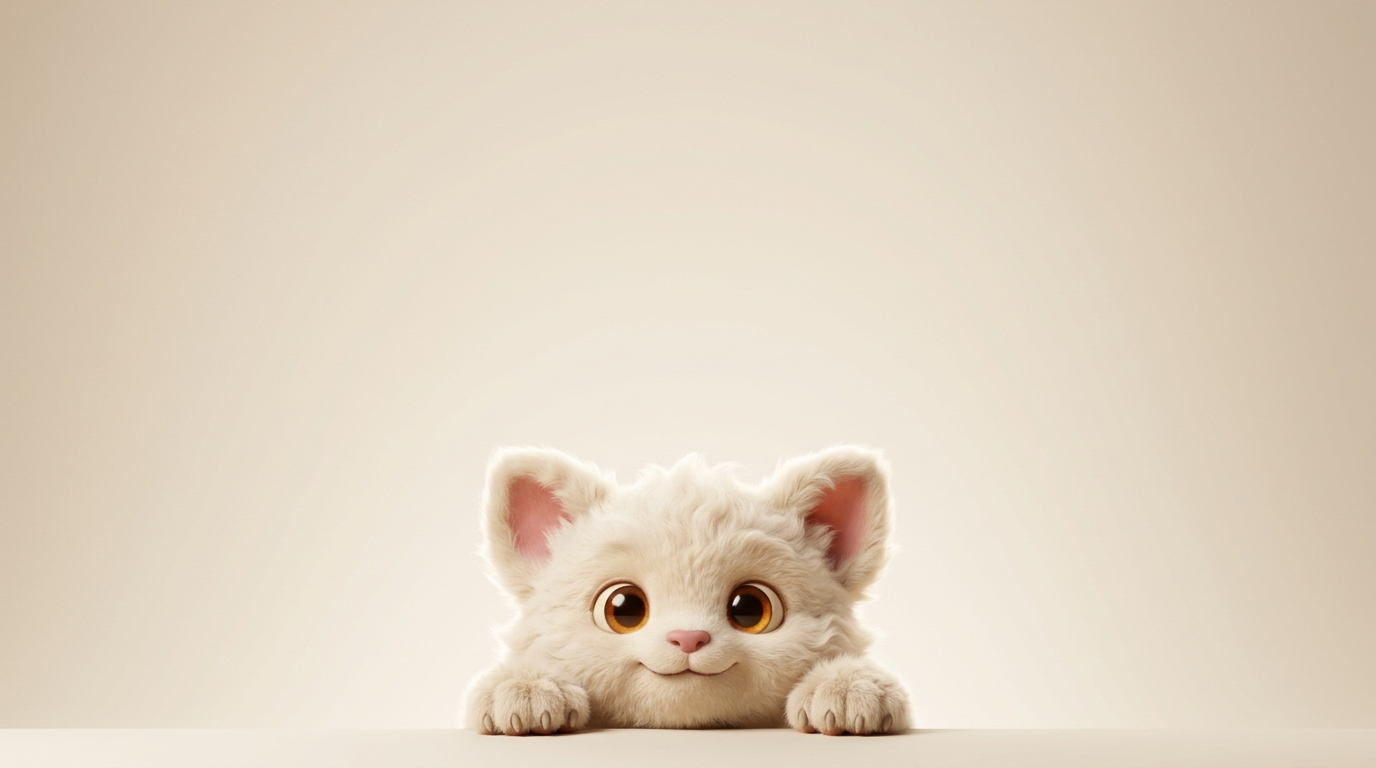
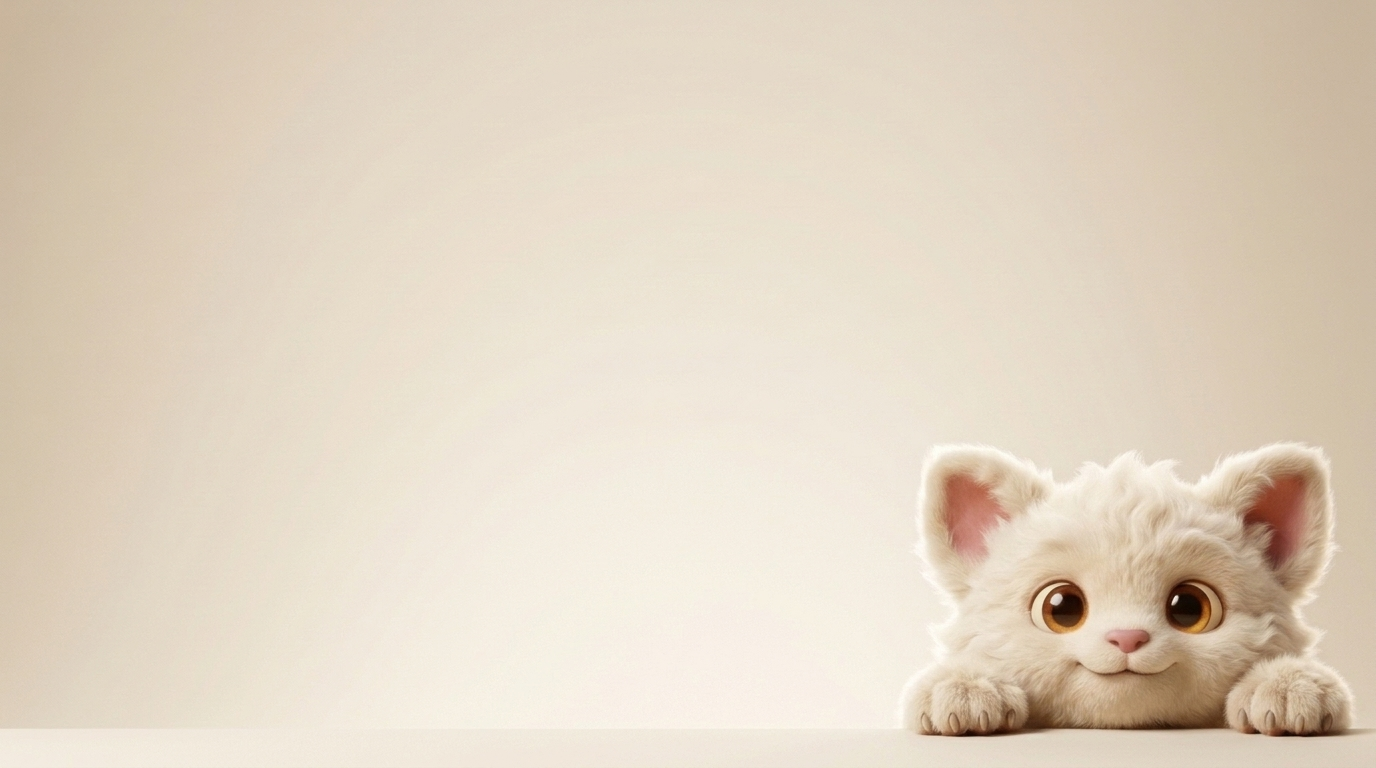
feat(v5.5.1): refine peeking creature bottom-right placement & complete mobile responsive navbar layout

Changed region(s): [[0.3438, 0.5625, 1.0, 1.0]]

diff --git a/index.html b/index.html
@@ -432,7 +432,7 @@
     <div id="portal-page" class="min-h-screen bg-[#FBF8F3] text-stone-800 flex flex-col font-sans transition-all duration-300 relative z-30 overflow-x-hidden hidden">
         <!-- 可愛萌物探頭背景固定層 & 柔和氛圍光 (Cute Creature Peeking Frosted Background) -->
         <div class="fixed inset-0 pointer-events-none z-0 overflow-hidden" aria-hidden="true">
-            <img src="assets/bg/cute_creature_bg.jpg" alt="" class="w-full h-full object-cover object-bottom sm:object-right-bottom opacity-[0.16] select-none pointer-events-none transition-opacity duration-700" />
+            <img src="assets/bg/cute_creature_bg.jpg?v=5.5.1" alt="" class="w-full h-full object-cover opacity-[0.16] select-none pointer-events-none transition-opacity duration-700" style="object-position: 80% 100%;" />
             <div class="absolute -top-[10%] -left-[10%] w-[55vw] h-[55vw] rounded-full pointer-events-none" style="background: radial-gradient(circle, rgba(245, 158, 11, 0.08) 0%, rgba(245, 158, 11, 0) 70%);"></div>
             <div class="absolute top-[30%] right-[-5%] w-[45vw] h-[45vw] rounded-full pointer-events-none" style="background: radial-gradient(circle, rgba(16, 185, 129, 0.05) 0%, rgba(16, 185, 129, 0) 70%);"></div>
             <div class="absolute -bottom-[10%] left-[20%] w-[55vw] h-[55vw] rounded-full pointer-events-none" style="background: radial-gradient(circle, rgba(99, 102, 241, 0.05) 0%, rgba(99, 102, 241, 0) 70%);"></div>
@@ -442,38 +442,50 @@
         <header class="sticky top-0 z-40 bg-[#fbf8f3]/80 backdrop-blur-xl border-b border-white/80 shadow-[0_4px_20px_-2px_rgba(120,90,60,0.03)] transition-all">
             <div class="max-w-7xl mx-auto px-4 sm:px-10 h-16 sm:h-20 flex items-center justify-between gap-3">
                 <!-- 左側：網站 Logo 與名稱 (點擊返回首頁頂端，維持寬度不被壓縮) -->
-                <button id="portal-nav-logo-btn" class="flex items-center gap-2.5 sm:gap-3.5 cursor-pointer group select-none text-left shrink-0" title="返回首頁頂端">
+                <button id="portal-nav-logo-btn" class="flex items-center gap-2 sm:gap-3 cursor-pointer group select-none text-left shrink-0" title="返回首頁頂端">
                     <img src="icon.svg" class="w-8 h-8 sm:w-10 sm:h-10 lg:w-11 lg:h-11 rounded-xl sm:rounded-2xl shadow-md shadow-indigo-600/20 group-hover:scale-105 transition-transform shrink-0" alt="PalClass">
                     <div class="shrink-0 flex flex-col justify-center">
                         <span class="text-base sm:text-xl lg:text-2xl font-black text-stone-900 tracking-tight block whitespace-nowrap">PalClass</span>
-                        <span class="text-[10px] sm:text-xs font-extrabold text-amber-700 tracking-wide block -mt-0.5 whitespace-nowrap">國一生獨立開發 • 經典三合一版</span>
+                        <span class="text-[10px] sm:text-xs font-extrabold text-amber-700 tracking-wide block -mt-0.5 whitespace-nowrap"><span class="hidden sm:inline">國一生獨立開發 • </span>經典三合一版</span>
                     </div>
                 </button>
 
                 <!-- 右側：功能按鈕列 (黃金比例精簡收納，乾淨清爽) -->
                 <div class="flex items-center gap-1.5 sm:gap-2.5 shrink-0">
-                    <!-- 家長端直達按鈕 -->
-                    <a href="parent.html" target="_blank" rel="noopener noreferrer" class="text-xs sm:text-sm font-bold text-indigo-700 bg-white/70 hover:bg-white/95 border border-indigo-200/70 backdrop-blur-md px-3 sm:px-3.5 py-1.5 sm:py-2 rounded-full transition-all flex items-center gap-1.5 shadow-2xs cursor-pointer whitespace-nowrap shrink-0" title="前往家長端即時查核看板">
+                    <!-- 家長端直達按鈕 (桌面端展示，行動端收納於選單) -->
+                    <a href="parent.html" target="_blank" rel="noopener noreferrer" class="hidden sm:inline-flex text-xs sm:text-sm font-bold text-indigo-700 bg-white/70 hover:bg-white/95 border border-indigo-200/70 backdrop-blur-md px-3 sm:px-3.5 py-1.5 sm:py-2 rounded-full transition-all items-center gap-1.5 shadow-2xs cursor-pointer whitespace-nowrap shrink-0" title="前往家長端即時查核看板">
                         <i class="fa-solid fa-house-chimney-user text-indigo-600"></i>
-                        <span class="hidden sm:inline">家長端</span>
+                        <span>家長端</span>
                     </a>
 
-                    <!-- 學生端直達按鈕 -->
-                    <a href="student.html" target="_blank" rel="noopener noreferrer" class="text-xs sm:text-sm font-bold text-emerald-800 bg-white/70 hover:bg-white/95 border border-emerald-300/70 backdrop-blur-md px-3 sm:px-3.5 py-1.5 sm:py-2 rounded-full transition-all flex items-center gap-1.5 shadow-2xs cursor-pointer whitespace-nowrap shrink-0" title="前往學生端數位聯絡簿">
+                    <!-- 學生端直達按鈕 (桌面端展示，行動端收納於選單) -->
+                    <a href="student.html" target="_blank" rel="noopener noreferrer" class="hidden sm:inline-flex text-xs sm:text-sm font-bold text-emerald-800 bg-white/70 hover:bg-white/95 border border-emerald-300/70 backdrop-blur-md px-3 sm:px-3.5 py-1.5 sm:py-2 rounded-full transition-all items-center gap-1.5 shadow-2xs cursor-pointer whitespace-nowrap shrink-0" title="前往學生端數位聯絡簿">
                         <i class="fa-solid fa-graduation-cap text-emerald-600"></i>
-                        <span class="hidden sm:inline">學生端</span>
+                        <span>學生端</span>
                     </a>
 
-                    <!-- 說明與日誌下拉選單 (收納：給老師的話、意見回饋、更新日誌、教學影片) -->
+                    <!-- 說明與日誌下拉選單 (收納：家長端/學生端快捷、給老師的話、意見回饋、更新日誌、教學影片) -->
                     <div class="relative inline-block text-left" id="portal-nav-more-dropdown-container">
-                        <button type="button" id="portal-nav-more-menu-btn" class="text-xs sm:text-sm font-bold text-stone-700 bg-white/75 hover:bg-white border border-stone-200/80 backdrop-blur-md px-3 sm:px-3.5 py-1.5 sm:py-2 rounded-full transition-all flex items-center gap-1.5 shadow-2xs cursor-pointer whitespace-nowrap shrink-0" title="查看系統說明、教學影片與更新紀錄" aria-expanded="false">
-                            <i class="fa-solid fa-circle-info text-amber-600"></i>
+                        <button type="button" id="portal-nav-more-menu-btn" class="text-xs sm:text-sm font-bold text-stone-700 bg-white/75 hover:bg-white border border-stone-200/80 backdrop-blur-md px-2.5 sm:px-3.5 py-1.5 sm:py-2 rounded-full transition-all flex items-center gap-1.5 shadow-2xs cursor-pointer whitespace-nowrap shrink-0" title="查看系統說明、教學影片與更新紀錄" aria-expanded="false">
+                            <i class="fa-solid fa-ellipsis text-stone-600 sm:hidden"></i>
+                            <i class="fa-solid fa-circle-info text-amber-600 hidden sm:inline-block"></i>
                             <span class="hidden md:inline">說明與日誌</span>
                             <i id="portal-nav-more-chevron" class="fa-solid fa-chevron-down text-[10px] text-stone-400 transition-transform duration-200"></i>
                         </button>
 
                         <!-- 浮動卡片選單 -->
-                        <div id="portal-nav-more-dropdown" class="hidden absolute right-0 mt-2 w-56 bg-white/90 backdrop-blur-xl rounded-2xl shadow-xl border border-white/80 py-2 z-50 transform origin-top-right transition-all duration-150">
+                        <div id="portal-nav-more-dropdown" class="hidden absolute right-0 mt-2 w-56 bg-white/95 backdrop-blur-xl rounded-2xl shadow-xl border border-white/80 py-2 z-50 transform origin-top-right transition-all duration-150">
+                            <!-- 行動端專屬直達入口 -->
+                            <a href="parent.html" target="_blank" rel="noopener noreferrer" class="sm:hidden w-full text-left px-3.5 py-2 text-xs font-bold text-indigo-700 hover:bg-indigo-50 flex items-center gap-2.5 transition-colors cursor-pointer">
+                                <i class="fa-solid fa-house-chimney-user text-indigo-600 text-sm w-4 text-center"></i>
+                                <span>家長端即時查核看板</span>
+                            </a>
+                            <a href="student.html" target="_blank" rel="noopener noreferrer" class="sm:hidden w-full text-left px-3.5 py-2 text-xs font-bold text-emerald-800 hover:bg-emerald-50 flex items-center gap-2.5 transition-colors cursor-pointer">
+                                <i class="fa-solid fa-graduation-cap text-emerald-600 text-sm w-4 text-center"></i>
+                                <span>學生端數位聯絡簿</span>
+                            </a>
+                            <div class="sm:hidden border-t border-stone-100 my-1"></div>
+
                             <button type="button" id="portal-nav-letter-btn" class="w-full text-left px-3.5 py-2 text-xs font-bold text-stone-700 hover:bg-amber-50 hover:text-amber-950 flex items-center gap-2.5 transition-colors cursor-pointer">
                                 <i class="fa-solid fa-envelope-open-text text-amber-600 text-sm w-4 text-center"></i>
                                 <span>給老師的話</span>
@@ -499,35 +511,39 @@
                     <div id="portal-nav-guest-actions" class="flex items-center gap-1.5 sm:gap-2.5 shrink-0 whitespace-nowrap">
                         <button id="portal-nav-qr-login-btn" class="text-xs sm:text-sm font-black text-emerald-800 bg-white/70 hover:bg-emerald-50 border border-emerald-300/80 backdrop-blur-md px-2.5 sm:px-3.5 py-1.5 sm:py-2 rounded-full transition-all flex items-center gap-1 cursor-pointer shadow-2xs whitespace-nowrap" title="快速登入（掃碼或認證碼）">
                             <i class="fa-solid fa-bolt text-amber-500 text-xs sm:text-sm"></i>
-                            <span class="inline">快速登入</span>
+                            <span class="hidden xs:inline sm:inline">快速登入</span>
                         </button>
                         <button id="portal-nav-login-btn" class="text-xs sm:text-sm font-bold text-stone-700 hover:text-stone-950 px-2.5 sm:px-4 py-1.5 sm:py-2 rounded-full hover:bg-stone-200/50 transition-colors whitespace-nowrap cursor-pointer">
                             登入
                         </button>
                         <button id="portal-nav-signup-btn" class="text-xs sm:text-sm font-bold text-white bg-slate-900 hover:bg-slate-800 px-3 sm:px-5 py-1.5 sm:py-2.5 rounded-full shadow-sm hover:shadow transition-all whitespace-nowrap cursor-pointer">
-                            免費註冊
+                            <span class="hidden sm:inline">免費</span>註冊
                         </button>
                     </div>
 
-                    <!-- 已登入狀態 (Profile 下拉 + 進入系統主行動按鈕) -->
-                    <div id="portal-nav-user-badge" class="hidden flex items-center gap-2 shrink-0 whitespace-nowrap">
+                    <!-- 已登入狀態 (Profile 下拉 + 進入系統主行動按鈕，行動端俐落自適應) -->
+                    <div id="portal-nav-user-badge" class="hidden flex items-center gap-1.5 sm:gap-2 shrink-0 whitespace-nowrap">
                         <!-- 主行動按鈕：進入系統 -->
-                        <button id="portal-nav-enter-btn" class="text-xs sm:text-sm font-black text-white bg-gradient-to-r from-indigo-600 via-purple-600 to-indigo-600 hover:from-indigo-700 hover:to-purple-700 px-3.5 sm:px-5 py-1.5 sm:py-2 rounded-full shadow-md shadow-indigo-600/25 hover:shadow-indigo-600/35 transition-all flex items-center gap-1.5 whitespace-nowrap cursor-pointer transform hover:-translate-y-0.5">
+                        <button id="portal-nav-enter-btn" class="text-xs sm:text-sm font-black text-white bg-gradient-to-r from-indigo-600 via-purple-600 to-indigo-600 hover:from-indigo-700 hover:to-purple-700 px-3 sm:px-5 py-1.5 sm:py-2 rounded-full shadow-md shadow-indigo-600/25 hover:shadow-indigo-600/35 transition-all flex items-center gap-1.5 whitespace-nowrap cursor-pointer transform hover:-translate-y-0.5">
                             <span>進入系統</span>
                             <i class="fa-solid fa-arrow-right text-xs"></i>
                         </button>
 
                         <!-- 使用者個人選單下拉 (收納：快速授權、使用者名稱、登出) -->
                         <div class="relative inline-block text-left" id="portal-nav-profile-dropdown-container">
-                            <button type="button" id="portal-nav-profile-btn" class="flex items-center gap-2 bg-white/80 backdrop-blur-md hover:bg-white border border-stone-200/80 py-1.5 px-3 rounded-full shadow-2xs transition-all cursor-pointer whitespace-nowrap" title="帳號管理與授權">
+                            <button type="button" id="portal-nav-profile-btn" class="flex items-center gap-1.5 sm:gap-2 bg-white/80 backdrop-blur-md hover:bg-white border border-stone-200/80 py-1.5 px-2.5 sm:px-3 rounded-full shadow-2xs transition-all cursor-pointer whitespace-nowrap" title="帳號管理與授權">
                                 <div class="w-6 h-6 rounded-full bg-gradient-to-tr from-indigo-500 to-purple-600 text-white flex items-center justify-center text-[10px] font-black shrink-0">
                                     <i class="fa-solid fa-user"></i>
                                 </div>
-                                <span id="portal-nav-user-name" class="text-xs sm:text-sm font-bold text-stone-800 max-w-[90px] sm:max-w-[120px] truncate">--</span>
+                                <span id="portal-nav-user-name" class="hidden sm:inline text-xs sm:text-sm font-bold text-stone-800 max-w-[120px] truncate">--</span>
                                 <i id="portal-nav-profile-chevron" class="fa-solid fa-chevron-down text-[10px] text-stone-400 transition-transform duration-200"></i>
                             </button>
 
-                            <div id="portal-nav-profile-dropdown" class="hidden absolute right-0 mt-2 w-48 bg-white/90 backdrop-blur-xl rounded-2xl shadow-xl border border-white/80 py-2 z-50 transform origin-top-right transition-all duration-150">
+                            <div id="portal-nav-profile-dropdown" class="hidden absolute right-0 mt-2 w-48 bg-white/95 backdrop-blur-xl rounded-2xl shadow-xl border border-white/80 py-2 z-50 transform origin-top-right transition-all duration-150">
+                                <div class="px-3.5 py-1.5 border-b border-stone-100 sm:hidden">
+                                    <div class="text-[10px] text-stone-400 font-bold">目前登入</div>
+                                    <div id="portal-nav-mobile-user-name" class="text-xs font-bold text-stone-800 truncate">--</div>
+                                </div>
                                 <button type="button" id="portal-nav-qr-scan-btn" class="w-full text-left px-3.5 py-2 text-xs font-bold text-stone-700 hover:bg-emerald-50 hover:text-emerald-900 flex items-center gap-2.5 transition-colors cursor-pointer">
                                     <i class="fa-solid fa-bolt text-amber-500 text-sm w-4 text-center"></i>
                                     <span>快速登入授權</span>
@@ -714,6 +730,7 @@
                                 <li class="flex items-start gap-1.5"><i class="fa-solid fa-check text-emerald-600 mt-0.5"></i> <span><b>首頁液態磨砂玻璃質感 (Liquid Glassmorphism)</b>：導覽列與卡片全數升級通透毛玻璃、細緻高光微漸層內邊框與柔和陰影。</span></li>
                                 <li class="flex items-start gap-1.5"><i class="fa-solid fa-check text-emerald-600 mt-0.5"></i> <span><b>可愛萌物探頭背景固定層</b>：右下角可愛萌物以低透明度固定背景若隱若現，營造療癒吸睛視覺，文字清晰好讀。</span></li>
                                 <li class="flex items-start gap-1.5"><i class="fa-solid fa-check text-emerald-600 mt-0.5"></i> <span><b>8 大核心亮點精緻網格收納</b>：以 4 欄式精巧卡片網格俐落收納核心功能，支援即時點擊放大高畫質燈箱。</span></li>
+                                <li class="flex items-start gap-1.5"><i class="fa-solid fa-check text-emerald-600 mt-0.5"></i> <span><b>行動端 393px 自適應無溢位</b>：導覽列精算佈局與智慧收納，手機端瀏覽徹底杜絕橫向捲軸破版。</span></li>
                                 <li class="flex items-start gap-1.5"><i class="fa-solid fa-check text-emerald-600 mt-0.5"></i> <span><b>課堂與點收全套核心加固</b>：全班共同集分預設零示範資料、24h 出勤滾輪、出缺席每月重置、考試計時器 24h 制防呆。</span></li>
                             </ul>
                         </div>
@@ -4714,6 +4731,10 @@
                             <li class="flex items-start gap-2">
                                 <i class="fa-solid fa-check text-amber-600 shrink-0 mt-0.5"></i>
                                 <span><b>8 大核心亮點精緻網格收納</b>：破除冗長垂直捲動，以 4 欄式精巧卡片網格俐落收納核心功能，支援即時點擊放大高畫質燈箱。</span>
+                            </li>
+                            <li class="flex items-start gap-2">
+                                <i class="fa-solid fa-check text-amber-600 shrink-0 mt-0.5"></i>
+                                <span><b>行動端導覽列極致自適應 (Mobile Viewport Optimization)</b>：精算 393px 手機螢幕寬度，家長與學生端入口智慧收納於下拉選單，未登入與已登入狀態下皆完美自適應，徹底杜絕橫向溢位破版。</span>
                             </li>
                             <li class="flex items-start gap-2">
                                 <i class="fa-solid fa-check text-amber-600 shrink-0 mt-0.5"></i>

diff --git a/js/render.js b/js/render.js
@@ -842,6 +842,8 @@ export function updatePortalUI() {
         if (guestActions) guestActions.classList.add('hidden');
         if (userBadge) userBadge.classList.remove('hidden');
         if (userNameSpan) userNameSpan.textContent = displayName;
+        const mobileUserNameSpan = document.getElementById('portal-nav-mobile-user-name');
+        if (mobileUserNameSpan) mobileUserNameSpan.textContent = displayName;
         if (heroStartBtn) heroStartBtn.innerHTML = `<span>進入班級經營系統</span><i class="fa-solid fa-arrow-right text-sm"></i>`;
         if (ctaStartBtn) ctaStartBtn.innerHTML = `<span class="pointer-events-none select-none inline-block">立即進入系統</span><i class="fa-solid fa-chevron-right text-xs pointer-events-none select-none"></i>`;
     } else {

diff --git a/sw.js b/sw.js
@@ -1,4 +1,4 @@
-const CACHE_NAME = 'palclass-v5.5.0';
+const CACHE_NAME = 'palclass-v5.5.1';
 const urlsToCache = [
   './index.html',
   './parent.html',
@@ -6,6 +6,7 @@ const urlsToCache = [
   './manifest.json',
   './css/style.css',
   './css/aurora-theme.css',
+  './assets/bg/cute_creature_bg.jpg',
   './js/shared/config.js',
   './js/parent/app.js',
   './js/student/app.js',
